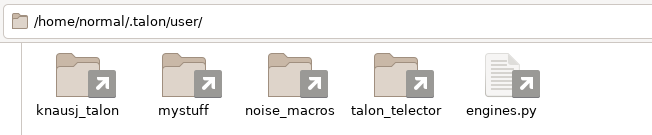
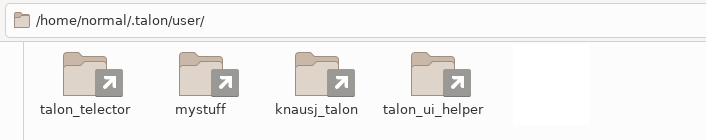
Remove mention of engines.py

diff --git a/basic_customization.md b/basic_customization.md
@@ -30,7 +30,7 @@ Given this flexibility there are two ways you could approach customizing your Ta
 
 Option A can be easier to begin with, but makes it somewhat harder to keep your knausj\_talon up to date. This is because you need to work out what you modified and how to re-apply it to the knausj package every time you update it. We recommend using Option B with separate directories as much as possible, only resorting to direct editing when you have to.
 
-The screenshot below shows my talon user directory. You can see that I have an engines.py and a knausj\_talon folder in the same way that you would. The rest of the folders are other 'packages' I'm using. All my personal customizations are in the 'mystuff' folder; knausj\_talon is completely unchanged from what I downloaded from github.
+The screenshot below shows my talon user directory. You can see that I have a knausj\_talon folder in the same way that you would. The rest of the folders are other 'packages' I'm using. All my personal customizations are in the 'mystuff' folder; knausj\_talon is completely unchanged from what I downloaded from github.
 
 ![Screen shot of Talon user directory](/media/basic_customization_folders.png)
 

diff --git a/FAQ.md b/FAQ.md
@@ -32,14 +32,6 @@ While Talon is closed source, there's plenty you can do to help:
 * Report issues at https://github.com/talonvoice/talon/issues
 * Add more to these docs :)
 
-### How do I enable verbose talon debugging?
-
-Open your talon user directory, for example `~/.talon/user` on Linux. Open the `engines.py` file in an editor and change the line containing `W2lEngine()` to include the parameter `debug=True`. If a `debug=False` parameter already exists, in the `False` should be changed to `True`.
-
-For example:
-```
-w2l = W2lEngine(model="en_US", debug=True)
-```
-
 ### Troubleshooting
+
 Checkout the [troubleshooting](/troubleshooting) for solutions to common problems.
